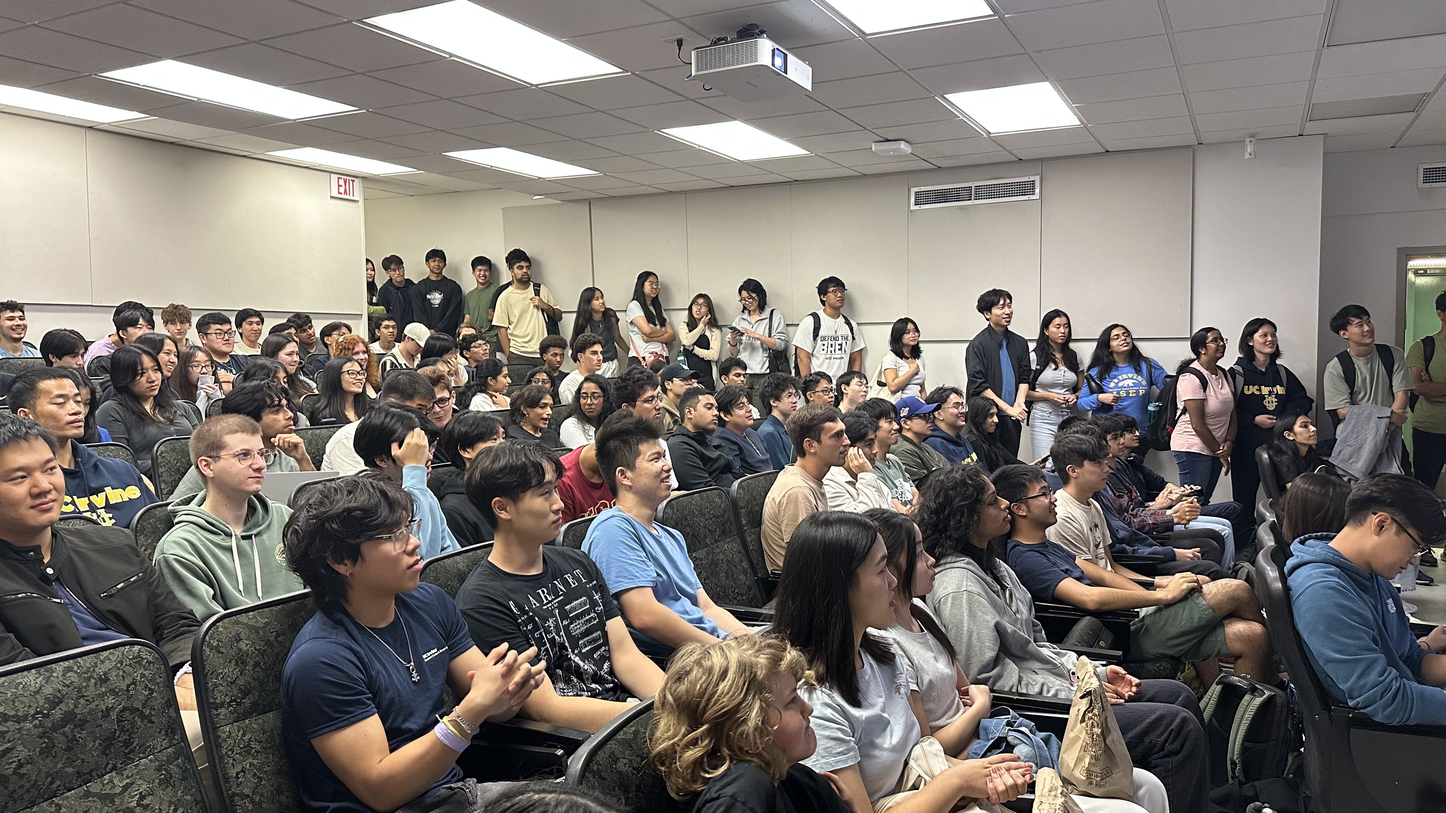
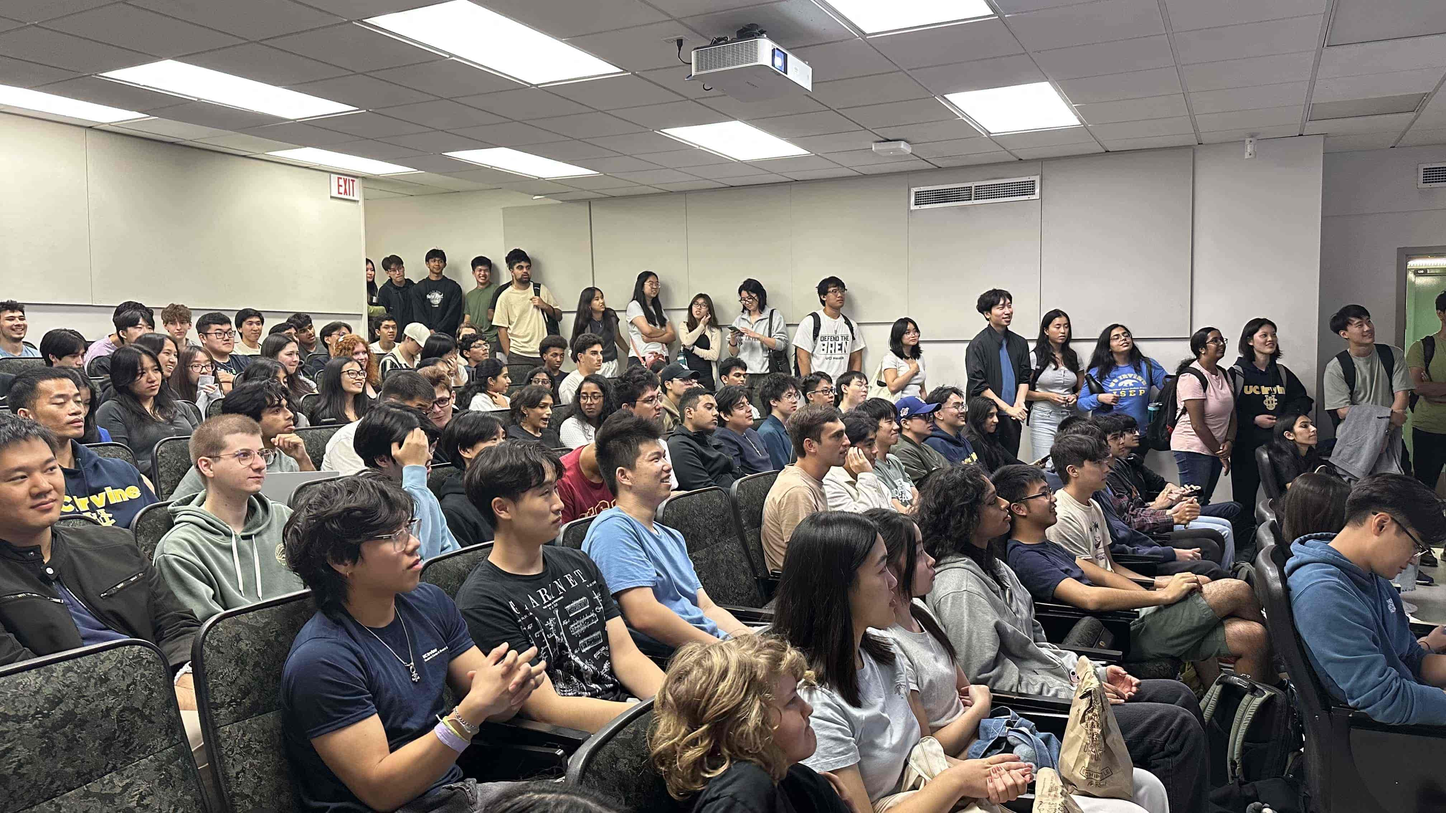
chore: compress

diff --git a/src/components/landing/events/landing-events-data.ts b/src/components/landing/events/landing-events-data.ts
@@ -28,7 +28,7 @@ export const LANDING_EVENTS_DATA: LandingEvent[] = [
         year: 2025
     },
     {
-        src: "ics-prom.png", 
+        src: "ics-prom.jpg",
         title: "ICS Prom",
         year: 2025
     },
